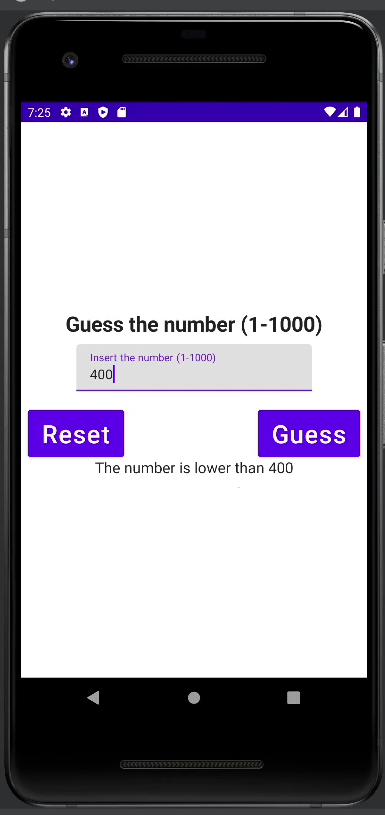
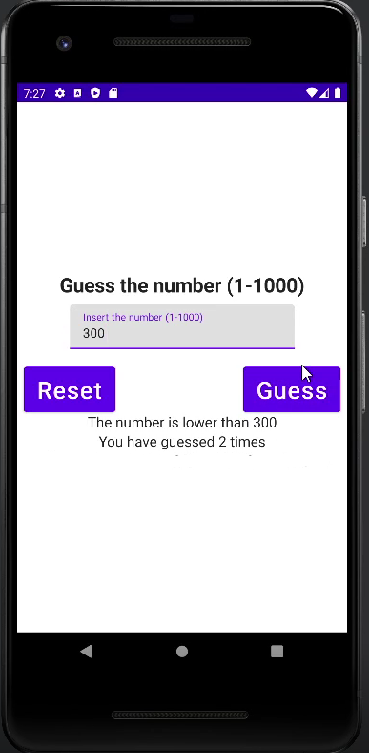
Add Count Function

Changed region(s): [[0.0, 0.0, 1.0, 1.0]]

diff --git a/app/src/main/java/com/example/numberguessinggame/MainActivity.kt b/app/src/main/java/com/example/numberguessinggame/MainActivity.kt
@@ -42,6 +42,7 @@ fun Greeting(name: String) {
 
 @Composable
 fun GuessNumber(random: Int) {
+    var count = remember { mutableStateOf(0) }
     var randomNumber = remember { mutableStateOf(random)}
     var output = remember { mutableStateOf("")}
     Column(
@@ -81,6 +82,7 @@ fun GuessNumber(random: Int) {
                     var random = nextInt(1, 1000)
                     randomNumber.value = random
                     output.value = ""
+                    count.value = 0
                 }
             ) {
                 Text(text = "Reset", fontSize = 30.sp)
@@ -90,6 +92,7 @@ fun GuessNumber(random: Int) {
                 onClick = {
                     var input = 0
                     var isdatText = 0
+                    count.value = count.value + 1
 
                     try {
                         input = text.toInt()
@@ -113,6 +116,11 @@ fun GuessNumber(random: Int) {
         }
         Text (
             text = "${output.value}",
+            fontSize = 18.sp
+        )
+
+        Text (
+            text = "You have guessed ${count.value} times",
             fontSize = 18.sp
         )
     /*
